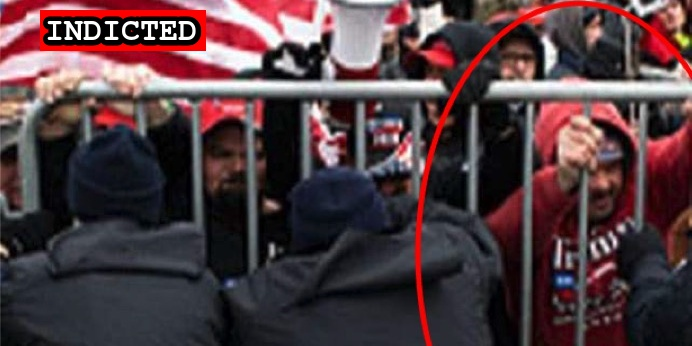
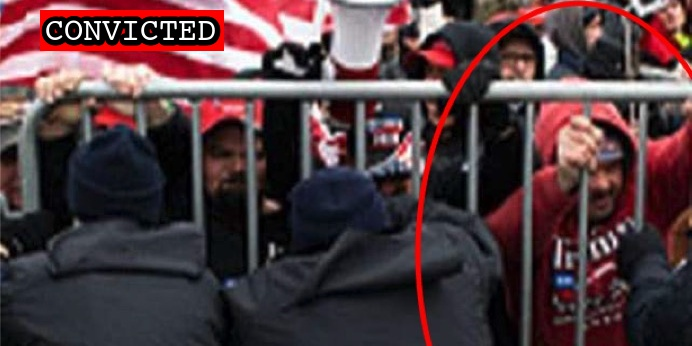
Wright plea

Changed region(s): [[0.0607, 0.0289, 0.3338, 0.1734]]

diff --git a/docs/_suspects/jeffrey-schaefer.md b/docs/_suspects/jeffrey-schaefer.md
@@ -33,15 +33,17 @@ description: Click for latest case details. Suspects innocent until proven guilt
 author: seditiontrack
 layout: suspect
 published: true
-caseNumber: 1:22-mj-000
+caseNumber: 1:22-cr-69
 videos:
 charges:
-  - code: 40 USC § 5104(e)(2)(G)
-    title: Parading, demonstrating or picketing in a Capitol building
-    url: https://www.law.cornell.edu/uscode/text/40/5104
-    felony: false
+- code: 40 USC § 5104(e)(2)(G)
+  title: Parading, demonstrating or picketing in a Capitol building
+  url: https://www.law.cornell.edu/uscode/text/40/5104
+  felony: false
 sentence:
 ---
-
 - [News Report](https://www.delawareonline.com/story/news/2022/01/14/jeffrey-schaefer-arrested-jan-6-capitol-riots-washington-facebook/6528740001/)
 - [Statement of Facts](https://www.justice.gov/usao-dc/case-multi-defendant/file/1481446/download)
+- [Information](https://www.justice.gov/usao-dc/case-multi-defendant/file/1523486/download)
+- [Plea Agreement](https://www.justice.gov/usao-dc/case-multi-defendant/file/1523491/download)
+- [Statement of Offense](https://www.justice.gov/usao-dc/case-multi-defendant/file/1523496/download)

diff --git a/docs/_suspects/john-wright.md b/docs/_suspects/john-wright.md
@@ -4,15 +4,17 @@ lastName: Wright
 hashtag: JohnWright
 aka:
 residence: Ohio
-status: Indicted
+status: Convicted
 date: 2021-04-26
 charged: 2021-04-26
 indicted: 2021-05-05
-convicted:
+convicted: 2022-08-02
+acquitted:
 sentenced:
 dismissed:
 deceased:
 plea_hearing: 2022-08-02
+trial_date:
 sentencing:
 age: 54
 occupation: Owner, Motor-Coach Business
@@ -34,6 +36,10 @@ published: true
 caseNumber: 1:21-cr-341
 videos:
 charges:
+  - code: 18 USC § 1512(c)(2)
+    title: Obstruction of an Official Proceeding
+    url: https://www.law.cornell.edu/uscode/text/18/1512
+    felony: true
 sentence:
 ---
 
@@ -41,3 +47,4 @@ sentence:
 - [Complaint](https://www.justice.gov/usao-dc/case-multi-defendant/file/1391066/download)
 - [Statement of Facts](https://www.justice.gov/usao-dc/case-multi-defendant/file/1391071/download)
 - [Indictment](https://www.justice.gov/usao-dc/case-multi-defendant/file/1460186/download)
+- [DOJ Statement (Conviction)](https://www.justice.gov/usao-dc/pr/ohio-man-pleads-guilty-felony-charge-actions-jan-6-capitol-breach)
